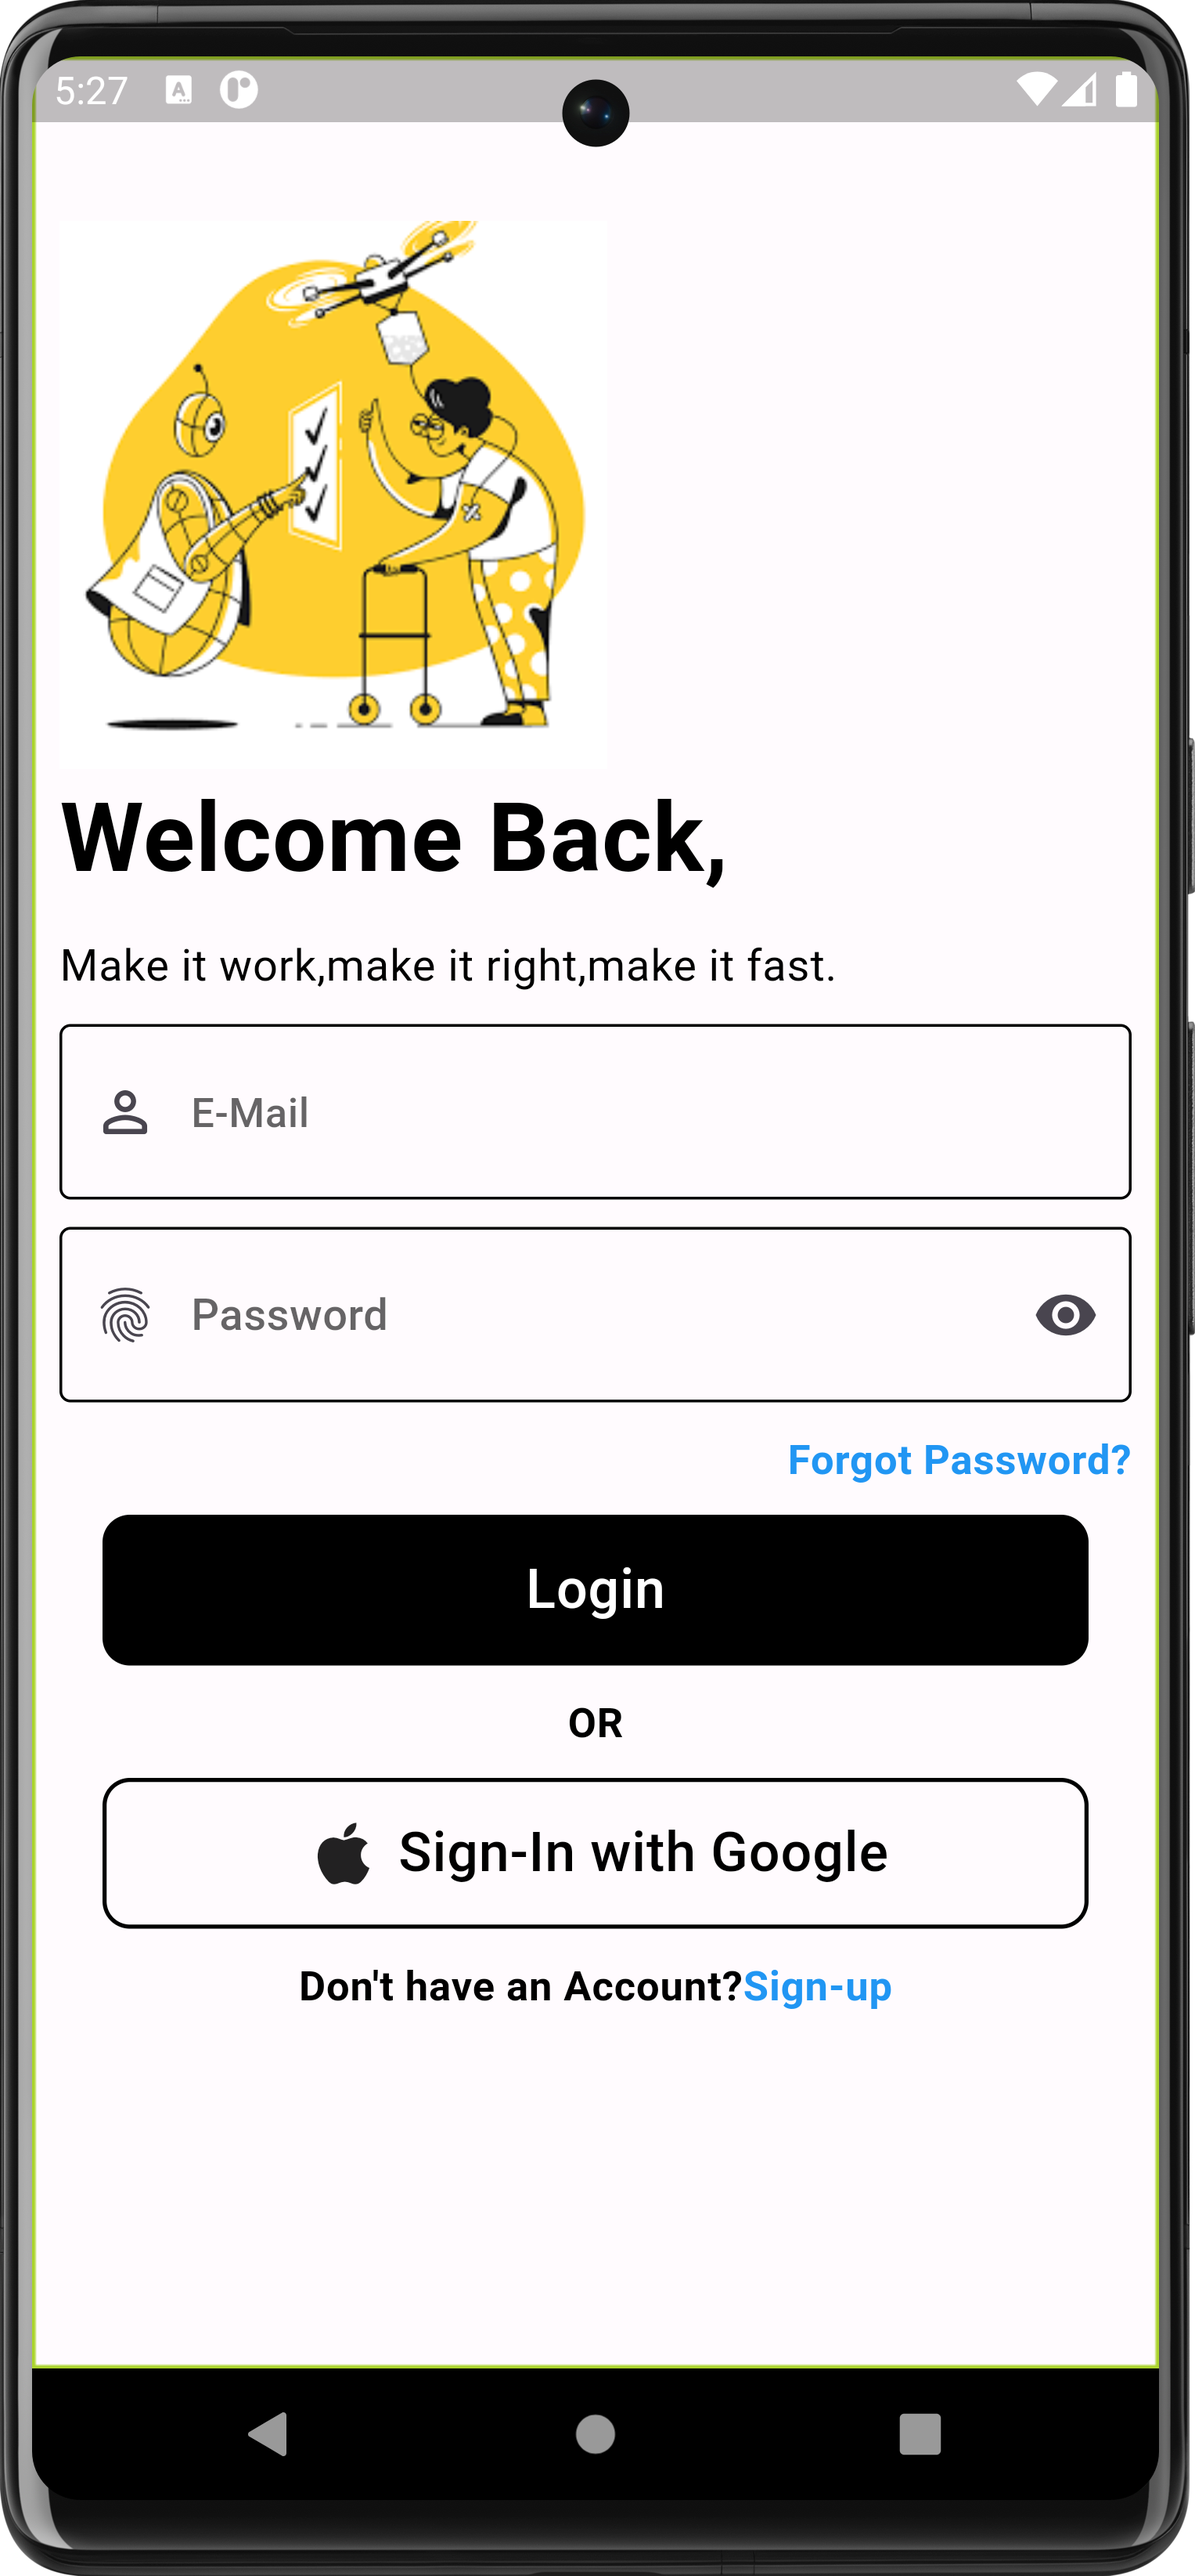
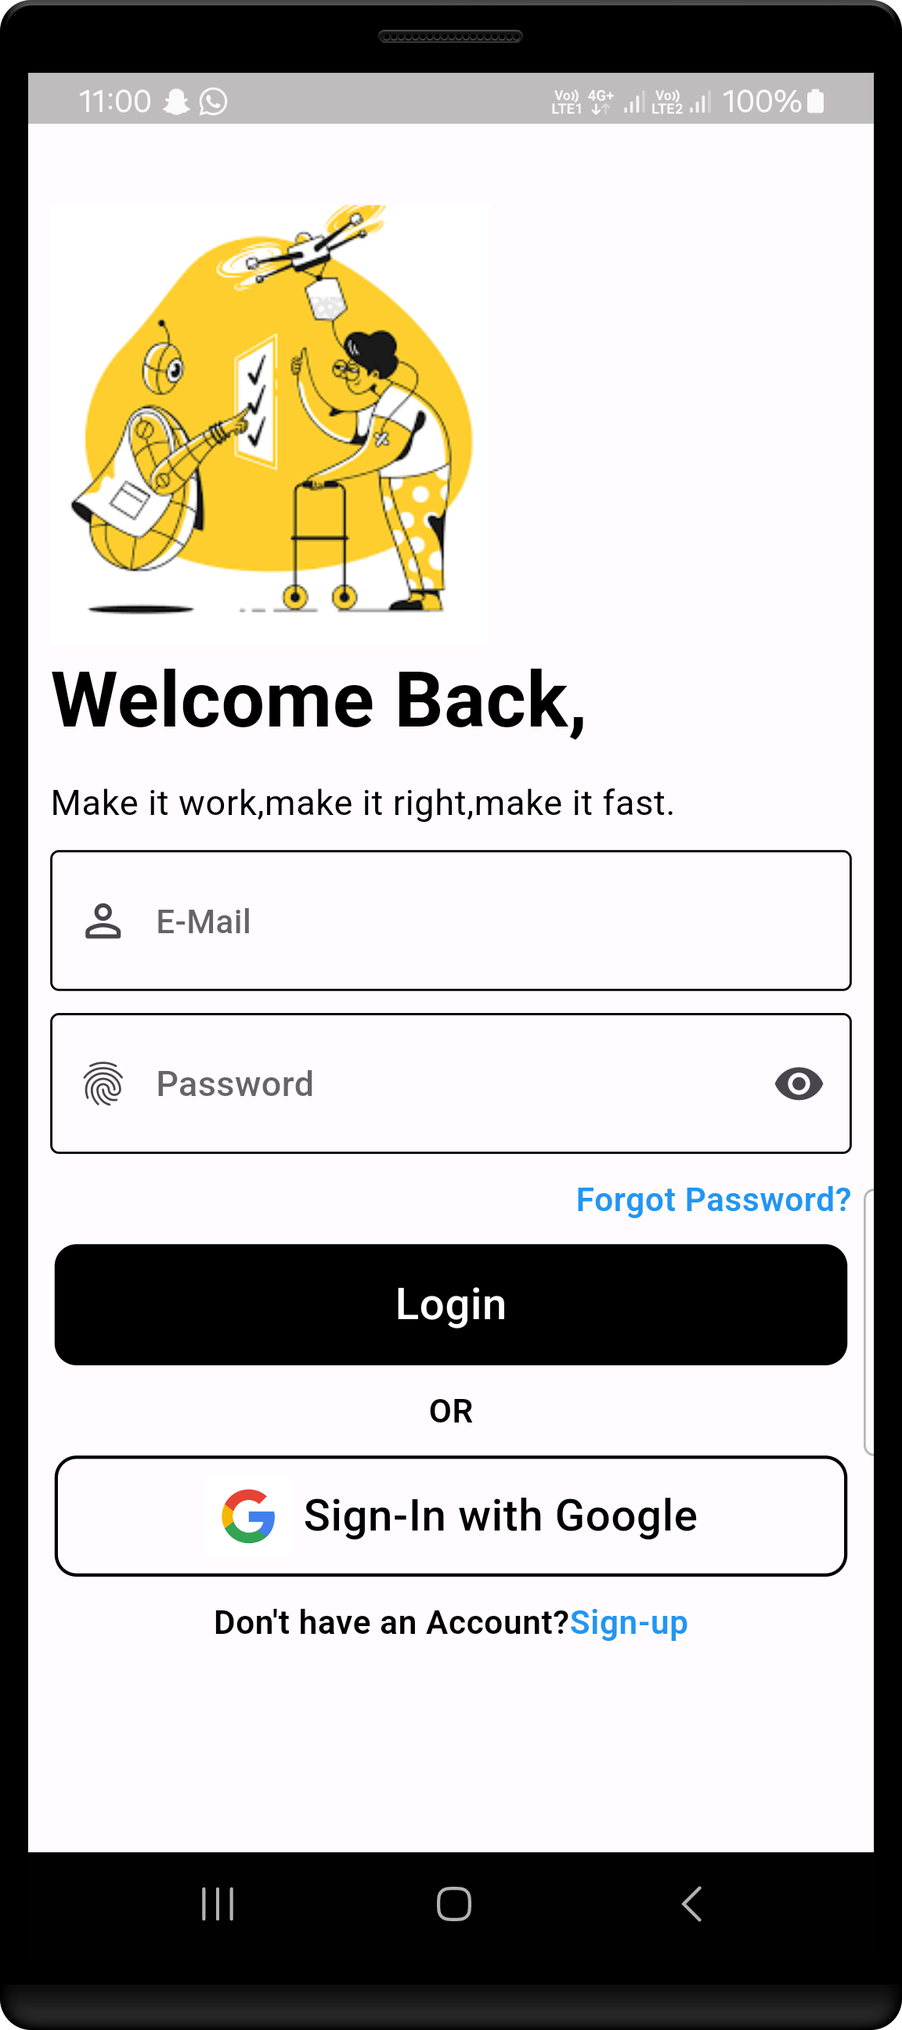
9/5/24

Changed region(s): [[0.0, 0.0, 1.0, 1.0]]

diff --git a/lib/Google/gmail.dart b/lib/Google/gmail.dart
@@ -19,65 +19,123 @@ class _gmailValidationChromeState extends State<gmailValidationChrome> {
         mainAxisAlignment: MainAxisAlignment.spaceAround,
         children: [
           Container(
-            height: 500,
-            width: 900,
+            height: 300,
+            width: double.infinity,
             decoration: BoxDecoration(
               color: Colors.white,
             ),
-            child: Column(
-              mainAxisAlignment: MainAxisAlignment.spaceAround,
+            child: Row(
+              mainAxisAlignment: MainAxisAlignment.spaceEvenly,
               children: [
-                Row(
+                Column(
+                  mainAxisAlignment: MainAxisAlignment.center,
                   children: [
                     Container(
                       height: 50,
                       width: 50,
                       decoration: BoxDecoration(
-                        image: DecorationImage(
-                          image: AssetImage('Assets/Images/download (2).png'),
-                        ),
-                      ),
+                          image: DecorationImage(
+                        image: AssetImage('Assets/Images/download (2).png'),
+                      )),
                     ),
-                  ],
-                ),
-                Row(
-                  mainAxisAlignment: MainAxisAlignment.spaceAround,
-                  children: [
                     Text(
                       'Sign in',
-                      style: TextStyle(
-                        fontSize: 25,
-                      ),
+                      style: TextStyle(fontSize: 25),
                     ),
-                    TextField(
-                      decoration: InputDecoration(
-                        enabledBorder: OutlineInputBorder(
-                            borderSide: BorderSide(
-                          color: Colors.black,
-                        )),
-                        focusedBorder: OutlineInputBorder(
-                            borderSide: BorderSide(
-                          color: Colors.red,
-                        )),
-                      ),
-                    )
+                    Text(
+                      'Use your Google Account',
+                      style: TextStyle(fontSize: 10),
+                    ),
                   ],
                 ),
-                // TextField(
-                //   decoration: InputDecoration(
-                //     enabledBorder: OutlineInputBorder(
-                //         borderSide: BorderSide(
-                //           color: Colors.black,
-                //         )),
-                //     focusedBorder: OutlineInputBorder(
-                //         borderSide: BorderSide(
-                //           color: Colors.red,
-                //         )),
-                //   ),
-                // )
+                Column(
+                  mainAxisAlignment: MainAxisAlignment.spaceEvenly,
+                  children: [
+                    SizedBox(height: 50,),
+                    SizedBox(
+                      width: 400,
+                      height: 90,
+                      child: TextField(
+                        decoration: InputDecoration(
+                            enabledBorder: OutlineInputBorder(
+                              borderSide: BorderSide(
+                                color: Colors.black,
+                              ),
+                            ),
+                            focusedBorder: OutlineInputBorder(
+                              borderSide: BorderSide(
+                                color: Color(0xffE54335),
+                              ),
+                            ),
+                            hintText: 'Email or phone',
+                            hintStyle: TextStyle(fontSize: 15)),
+                      ),
+                    ),
+                    Row(mainAxisAlignment: MainAxisAlignment.start,
+                      children: [
+                        Text(
+                          'Forgot email?',
+                          style: TextStyle(
+                              color: Color(0xff0A58D0),
+                              fontSize: 10,
+                              fontWeight: FontWeight.bold),
+                        ),
+                      ],
+                    ),
+                    SizedBox(height: 10,),
+                    Row(
+                      children: [
+                        Text(
+                          'Not your computer? Use Guest mode to sign in privetely. ',
+                          style: TextStyle(
+                            color: Colors.black,
+                            fontSize: 10,
+                          ),
+                        ),
+                        Text(
+                          'Learn more',
+                          style: TextStyle(
+                              color: Color(0xff0A58D0),
+                              fontSize: 10,
+                              fontWeight: FontWeight.w800),
+                        ),
+                      ],
+                    ),
+                    SizedBox(height: 10,),
+                    Row(
+                      mainAxisAlignment: MainAxisAlignment.end,
+                      children: [
+                        Text(
+                          'Create account',
+                          style: TextStyle(
+                            color: Colors.black,
+                            fontSize: 10,
+                          ),
+                        ),
+                        SizedBox(width: 15,),
+                        Container(
+                          height: 35,
+                          width: 80,
+                          decoration: BoxDecoration(
+                              color: Color(0xff0A58D0),
+                              borderRadius: BorderRadius.circular(20)),
+                          child: Center(
+                            child: Text(
+                              'Next',
+                              style: TextStyle(
+                                  color: Colors.white,
+                                  fontSize: 12,
+                                  fontWeight: FontWeight.w100),
+                            ),
+                          ),
+                        ),
+                      ],
+                    ),
+                  ],
+                )
               ],
             ),
-          )
+          ),
         ],
       ),
     ));

diff --git a/lib/LoginPages/loginScreen.dart b/lib/LoginPages/loginScreen.dart
@@ -177,7 +177,15 @@ class _LoginPageState extends State<LoginPage> {
                   child: Row(
                     mainAxisAlignment: MainAxisAlignment.center,
                     children: [
-                      Icon(Icons.apple_sharp,size: 30,),
+                      Container(
+                        height: 40,
+                        width: 40,
+                        decoration: BoxDecoration(
+                            image: DecorationImage(
+                              image: AssetImage('Assets/Images/download (2).png'),
+                            )),
+                      ),
+                      // Icon(Icons.apple_sharp,size: 30,),
                       SizedBox(width: 5,),
                       Text(
                         'Sign-In with Google',

diff --git a/lib/Utils/global.dart b/lib/Utils/global.dart
@@ -13,9 +13,9 @@ class AppRoutes
   static Map<String,Widget Function(BuildContext)>routes={
     // '/':(context)=>statusAndappBar(),
     // '/':(context)=>GmailDrawer(),
-    // '/':(context)=>EntryScreen(),
-    '/':(context)=>gmailValidationChrome(),
-    // '/login':(context)=>LoginPage(),
+    '/':(context)=>EntryScreen(),
+    // '/':(context)=>gmailValidationChrome(),
+    '/login':(context)=>LoginPage(),
 
 
   };
